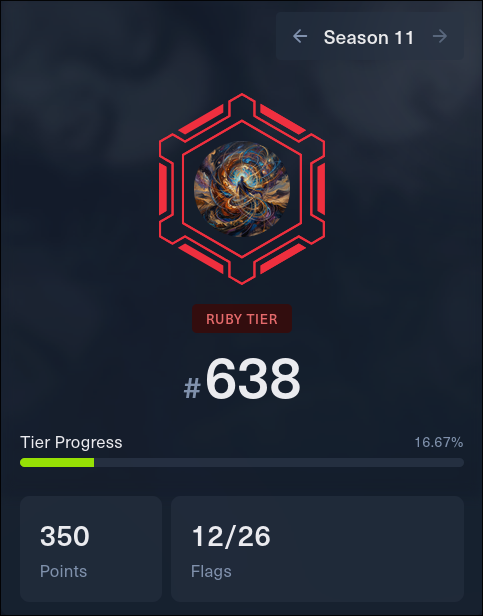
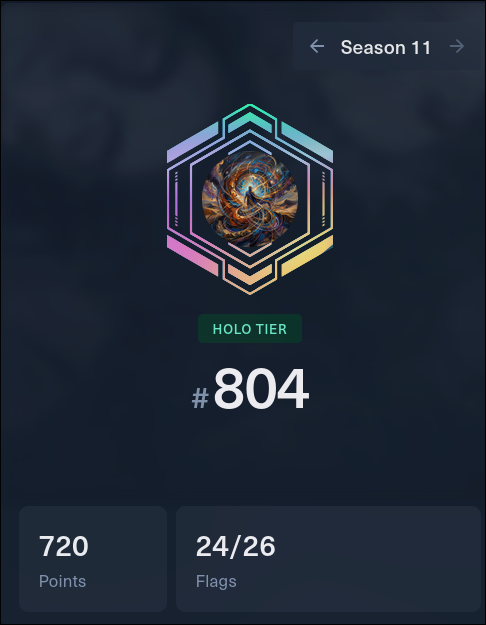
Update HTB screenshots: Level 53, Season 11 Holo Tier #804

diff --git a/README.md b/README.md
@@ -100,7 +100,7 @@
 </p>
 
 <p align="center">
-  <img src="https://img.shields.io/badge/Level-48-00FF00?style=for-the-badge&logo=hackthebox&logoColor=white" />
+  <img src="https://img.shields.io/badge/Level-53-00FF00?style=for-the-badge&logo=hackthebox&logoColor=white" />
   <img src="https://img.shields.io/badge/Rank-Professional-DAA520?style=for-the-badge&logo=hackthebox&logoColor=white" />
   <img src="https://img.shields.io/badge/Status-Active-ff6666?style=for-the-badge&logo=hackthebox&logoColor=white" />
 </p>
@@ -112,7 +112,7 @@
 | |
 |:---:|
 | <img src="https://raw.githubusercontent.com/Jeanback1/Jeanback1/main/assets/htb/audit-20260623-231538.png" width="400" alt="HTB Profile" /> |
-| **Profile**<br/>`Level 48` · `Professional` · `VIP 🜲` · `Team #DO` |
+| **Profile**<br/>`Level 53` · `Professional` · `VIP 🜲` · `Team #DO` |
 
 </div>
 
@@ -123,7 +123,7 @@
 | |
 |:---:|
 | <img src="https://raw.githubusercontent.com/Jeanback1/Jeanback1/main/assets/htb/audit-20260623-231326.png" height="420" alt="HTB Season 11" /> |
-| **Season 11 — Competitive**<br/>`Ruby Tier` · `Rank #638` · `350 pts` · `12/26 Flags` |
+| **Season 11 — Competitive**<br/>`Holo Tier` · `Rank #804` · `720 pts` · `24/26 Flags` |
 
 </div>
 
